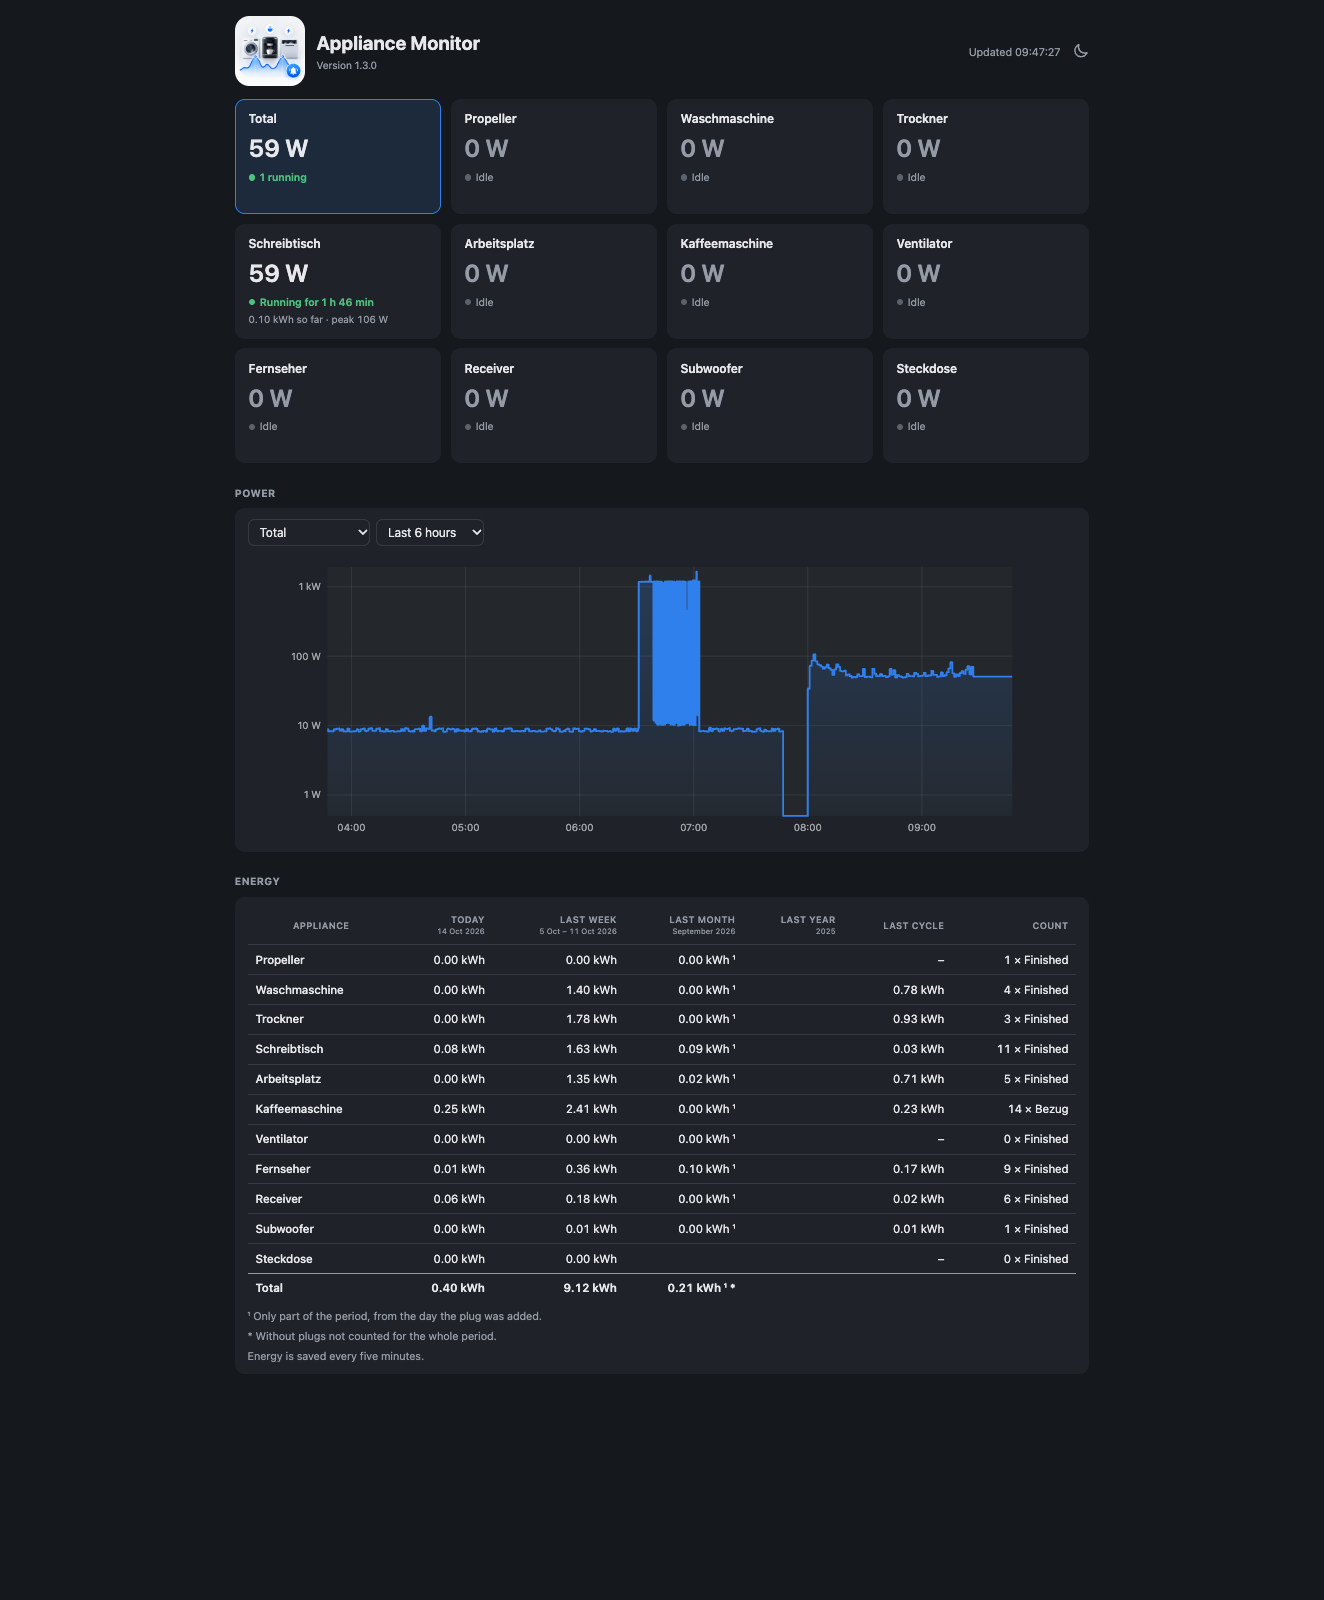
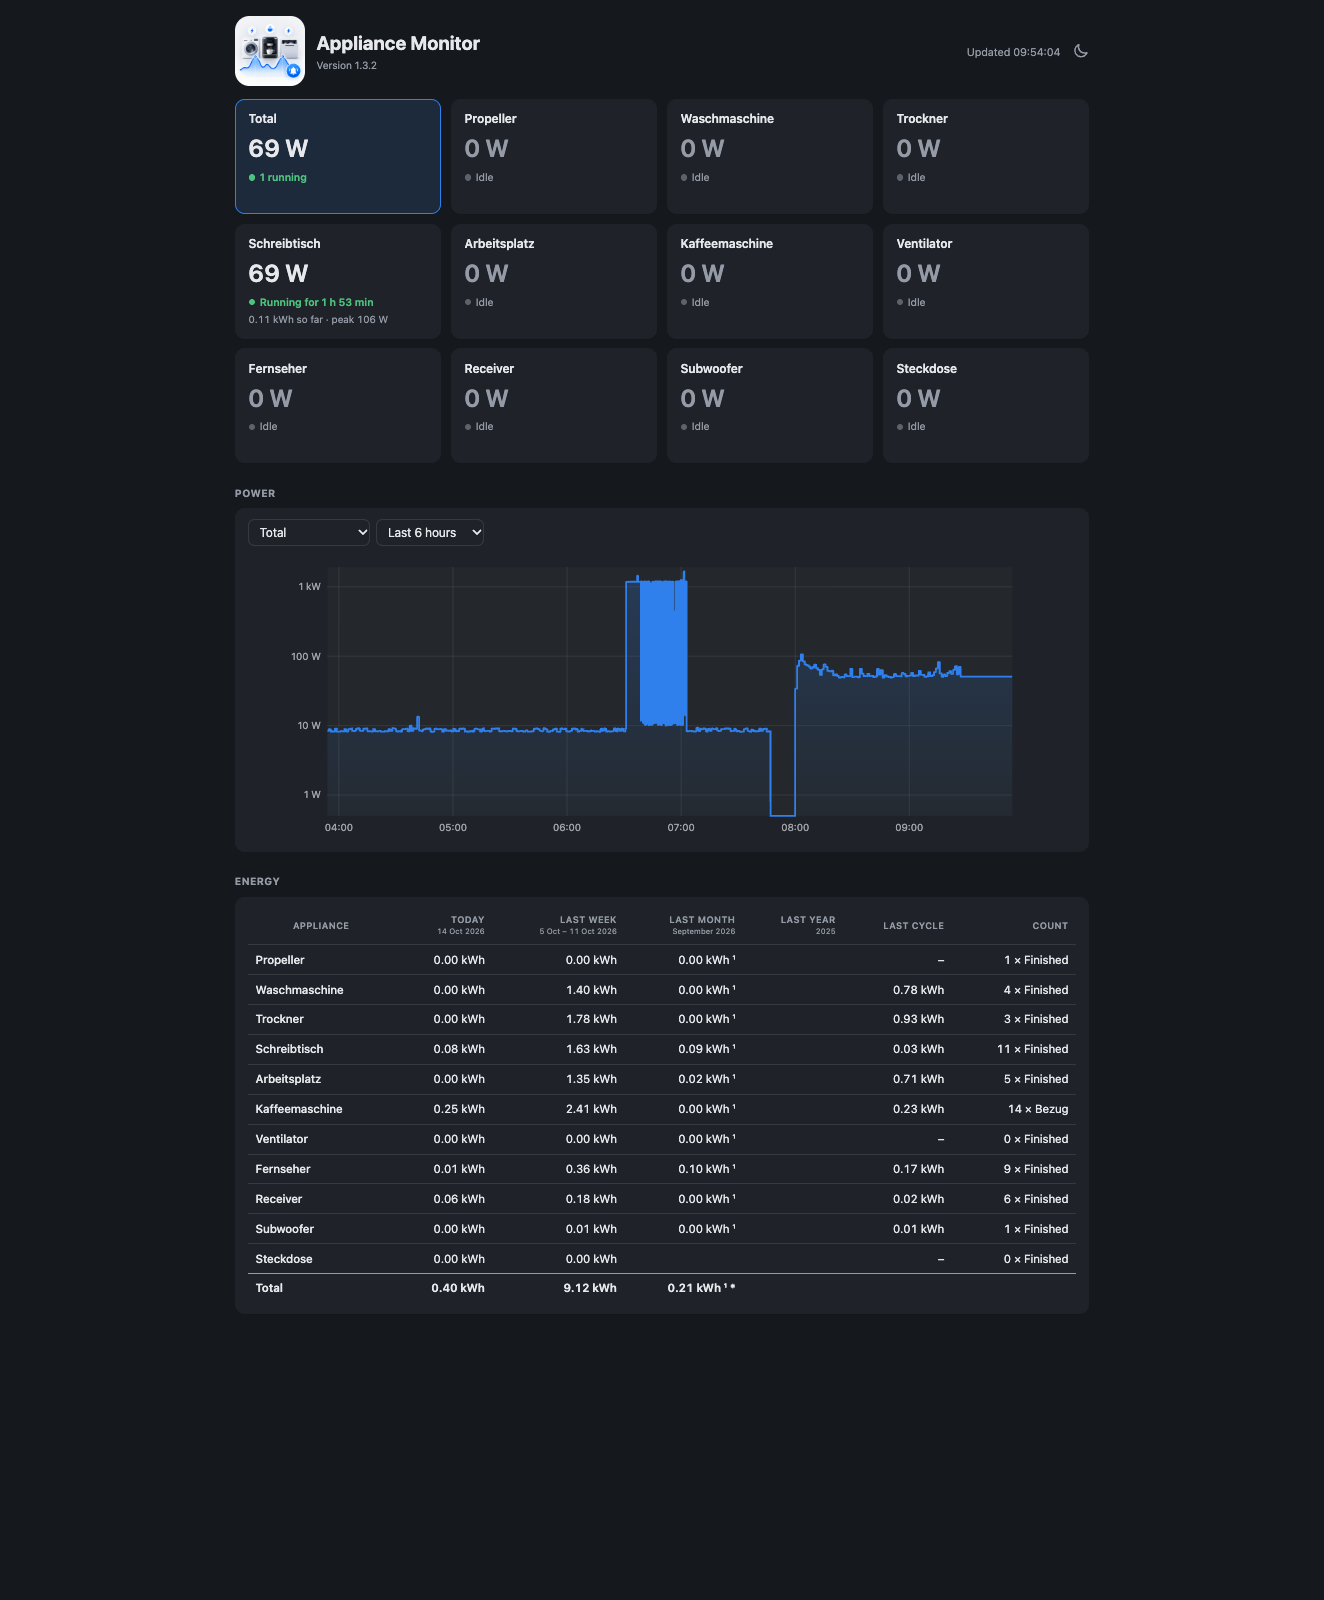
1.3.2: no notes below the dashboard's statistics
What ¹ and * mean is in the README, linked from the Dashboard section.

Changed region(s): [[0.4645, 0.3438, 0.7432, 0.5312], [0.1858, 0.8125, 0.3716, 0.8438], [0.3097, 0.4375, 0.3406, 0.4688]]

diff --git a/web/dashboard.js b/web/dashboard.js
@@ -271,12 +271,10 @@
     }
     if (table.rows.length === 0) {
       $('stats').replaceChildren(el('p', 'muted', 'No plugs configured.'));
-      $('notes').replaceChildren();
       return;
     }
-    const { element, notes } = statisticsTable(table, { dates: true });
-    $('stats').replaceChildren(element);
-    $('notes').replaceChildren(...[...notes, 'Energy is saved every five minutes.'].map((text) => el('p', '', text)));
+    // Without the notes on ¹ and *: the README explains them, and the page stays clean.
+    $('stats').replaceChildren(statisticsTable(table, { dates: true }).element);
   }
 
   // ---- Refresh ---------------------------------------------------------------

diff --git a/web/index.html b/web/index.html
@@ -96,7 +96,6 @@
     tbody td:first-child { font-weight: 500; }
     tbody tr + tr td { border-top: 1px solid var(--line); }
     tfoot td { border-top: 1px solid var(--muted); font-weight: 600; }
-    .notes p { margin: 6px 0 0; }
     .error { color: var(--warn); }
 
     .side { display: flex; align-items: center; gap: 14px; }
@@ -235,7 +234,6 @@
     <h2>Energy</h2>
     <div class="card panel">
       <div class="scroll" id="stats"></div>
-      <div class="muted notes" id="notes"></div>
     </div>
   </main>
 </body>

diff --git a/CHANGELOG.md b/CHANGELOG.md
@@ -6,6 +6,13 @@ adheres to [semantic versioning](https://semver.org/spec/v2.0.0.html).
 
 ## [Unreleased]
 
+## [1.3.2] — 2026-10-14
+
+### Changed
+
+- The dashboard's statistics have no notes below them; what ¹ and * mean is
+  in the README.
+
 ## [1.3.1] — 2026-10-14
 
 ### Changed
@@ -557,7 +564,8 @@ The first published version.
 - A short log: one line per plug on start, what a plug offers once when it is
   paired, then only what changes.
 
-[Unreleased]: https://github.com/rummeyer/homebridge-appliance-monitor/compare/v1.3.1...HEAD
+[Unreleased]: https://github.com/rummeyer/homebridge-appliance-monitor/compare/v1.3.2...HEAD
+[1.3.2]: https://github.com/rummeyer/homebridge-appliance-monitor/compare/v1.3.1...v1.3.2
 [1.3.1]: https://github.com/rummeyer/homebridge-appliance-monitor/compare/v1.3.0...v1.3.1
 [1.3.0]: https://github.com/rummeyer/homebridge-appliance-monitor/compare/v1.2.3...v1.3.0
 [1.2.3]: https://github.com/rummeyer/homebridge-appliance-monitor/compare/v1.2.2...v1.2.3

diff --git a/README.md b/README.md
@@ -402,7 +402,8 @@ look, after Apple's Home app:
 - the **power chart** of all plugs together, or of the appliance picked —
   click its tile, or pick it from the list. It opens on all plugs and the
   last 6 hours; the time picked is kept for the next visit;
-- the **statistics**, as on the Statistics tab.
+- the **statistics**, as on the Statistics tab, without its notes: what ¹
+  and * mean is under [Statistics](#statistics).
 
 It updates itself every few seconds. On a phone, the tiles are two side by
 side:
